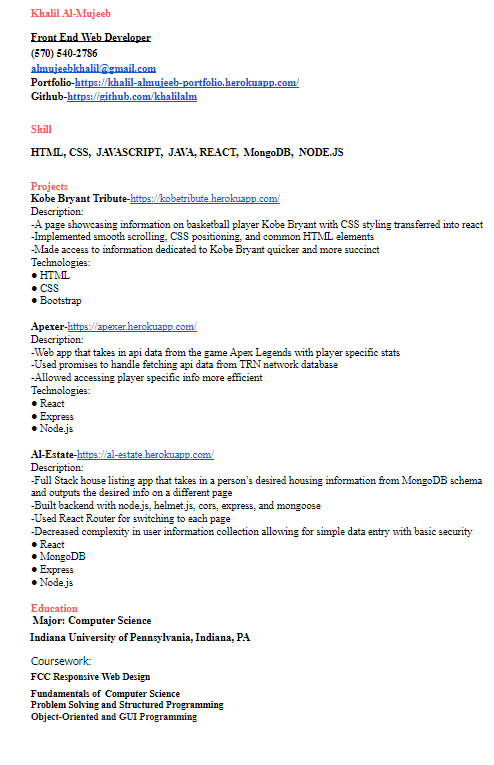
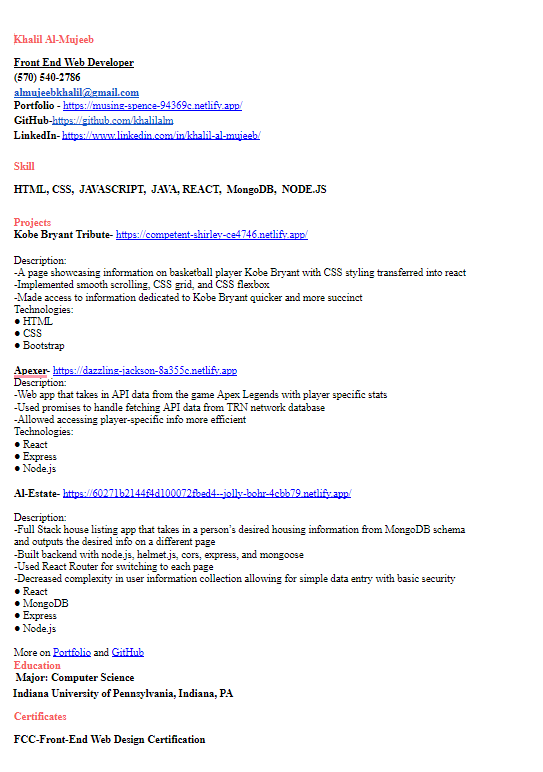
Background-color changes, contact nav smooth scrolling fix and small bug fixes

Changed region(s): [[0.0, 0.2105, 0.9717, 0.9621], [0.0, 0.0, 0.6984, 0.2105]]

diff --git a/src/components/projects.js b/src/components/projects.js
@@ -1,6 +1,6 @@
 import React, { Component } from "react";
 import "./projects.css";
-import gh from "../images/github.svg";
+import gymshark from "../images/gl.png";
 import twitch from "../images/twitch.jpg";
 import alEstate from "../images/home.jpg";
 import apexer from "../images/Apexer.jpg";
@@ -15,35 +15,46 @@ class projects extends Component {
         <p className="subtitle">My Favorite Projects</p>
         <div className="portfolio">
           {" "}
+
+
           <a href="https://dazzling-jackson-8a355c.netlify.app/">
             <div
               className="textOverImage"
               data-text="Apexer                                                                                                                                                                                                                               Apex Stat Tracking App made using
            TRN developer api for stat information and then used express to
-           get the URL for the api.                                                                                                                                                                                                                             Technologies: -HTML -CSS -React -NodeJS "
+           get the URL for the api.                                                                                                                                                                                                                                                                                                                                                                                                                                                         Technologies: -HTML -CSS -React -NodeJS "
             >
               <a className="portfolio-item">
                 <img className="portfolio-img" src={apexer}></img>
               </a>
             </div>
           </a>
+
+
+
+
+
           <a href="https://competent-shirley-ce4746.netlify.app">
             <div
               className="textOverImage"
               data-text="Kobe Bryant Tribute Page                                                                                                                                                                                                                                Tribute page showcasing HTML and CSS styling techniques under the
-      react framework in an organized design pattern.                                                                                                                                                                                                                              Technologies: -HTML -CSS -React "
+      react framework in an organized design pattern.                                                                                                                                                                                                                                                                                                                                                                                                                                                         Technologies: -HTML -CSS -React "
             >
               <a className="portfolio-item">
                 <img className="portfolio-img" src={kobe}></img>
               </a>
             </div>
           </a>
+
+
+
+          
           <a href="https://jolly-bohr-4cbb79.netlify.app">
             <div
               className="textOverImage"
               data-text="Al-Estate                                                                                                                                                                                                                              Full Stack Home Tracking app that
                   takes in housing info you want to keep with you and let's you
-                  create, remove, edit and delete listings.                                                                                                                                                                                                                             Technologies: -HTML -CSS -React -NodeJS -MongoDB"
+                  create, remove, edit and delete listings.                                                                                                                                                                                                                                                                                                                                                                                                                                                         Technologies: -HTML -CSS -React -NodeJS -MongoDB"
             >
               <a className="portfolio-item">
                 <img className="portfolio-img" src={alEstate}></img>

diff --git a/src/components/resume.js b/src/components/resume.js
@@ -9,8 +9,8 @@ class resume extends Component {
         <div className="resume-wrapper">
           <h1 className="resume-title">Resume</h1>
           <div className="resume-content">
-           
-              <img className="resume-image" src={resumeI}></img> <a href="https://drive.google.com/file/d/1PGkVqGbHaj00xO5Vn7qUf-uqKBb8pTIG/view?usp=sharing">
+            <a href="https://drive.google.com/file/d/1xhSHPgtWQgb02devz8jUbDd13M1vUm9V/view?usp=sharing">
+              <img className="resume-image" src={resumeI}></img>
             </a>
           </div>
 

diff --git a/src/components/navBar.js b/src/components/navBar.js
@@ -78,7 +78,7 @@ const navSlide = () => {
             <li className="nav-item">
               <Link
                 className="Nav-a"
-                to="contact-main"
+                to="contact-container"
                 smooth={true}
                 duration={1000}
               >

diff --git a/src/components/aboutMe.css b/src/components/aboutMe.css
@@ -22,7 +22,7 @@
 .info-text{
   border: 1px black solid;
   padding: 10px;
-  background-color: rgb(104, 93, 93);
+  background-color: #3366cc;
 }
 .bg-wrapper {
   background-color: rgba(95, 95, 95, 0.884);
